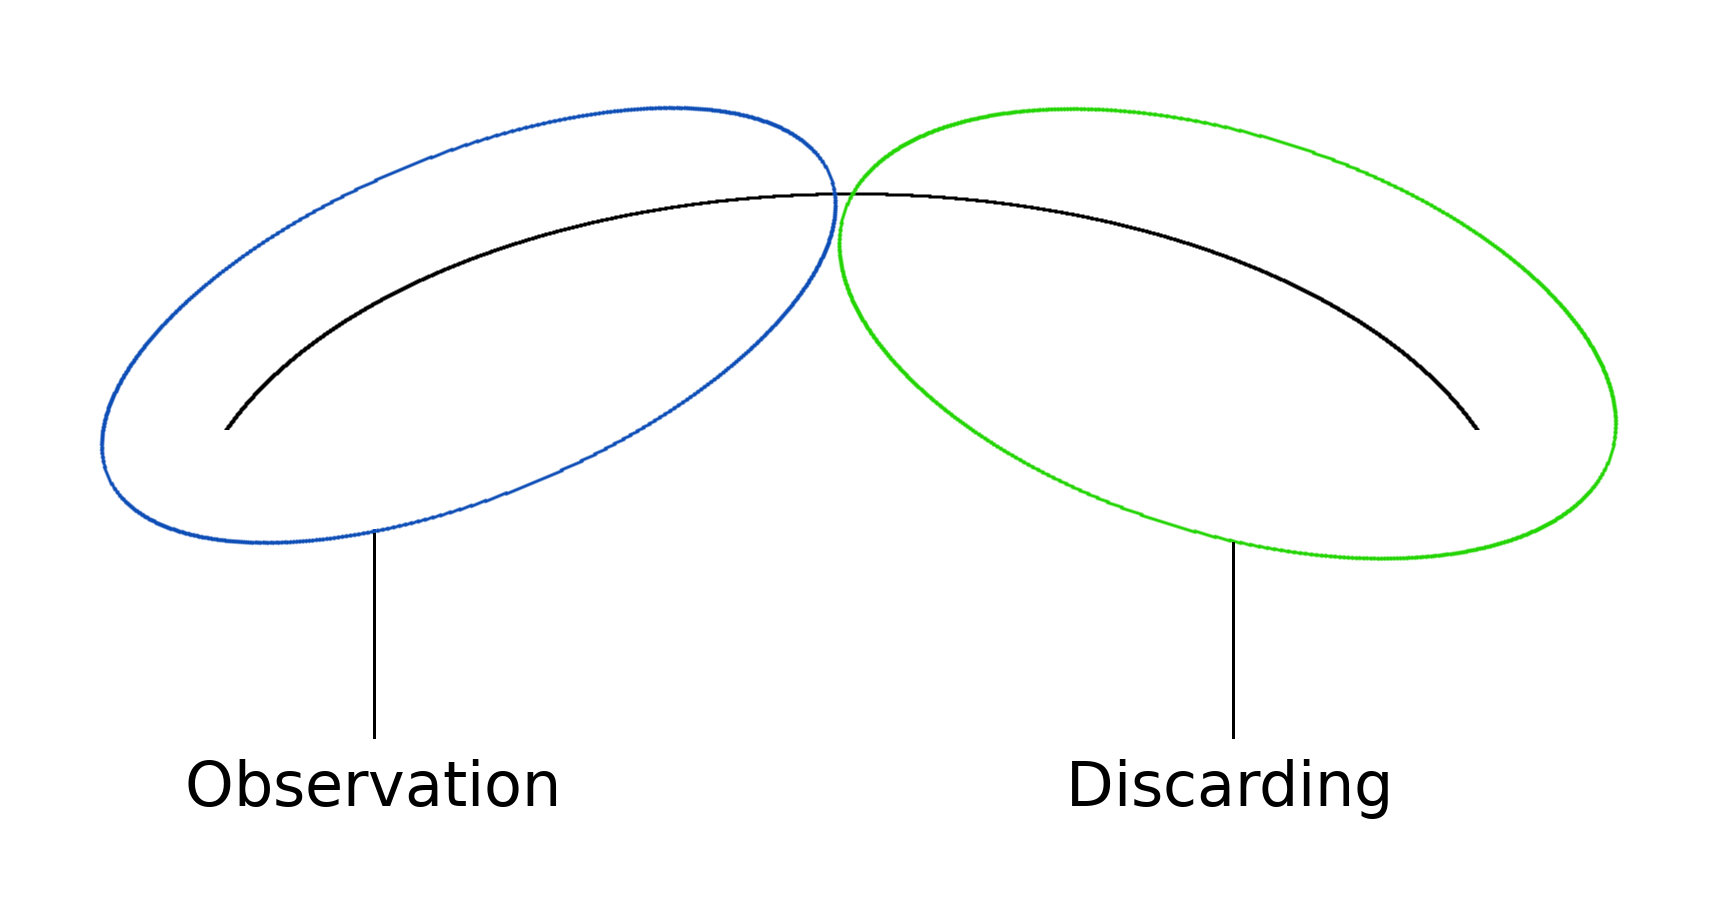
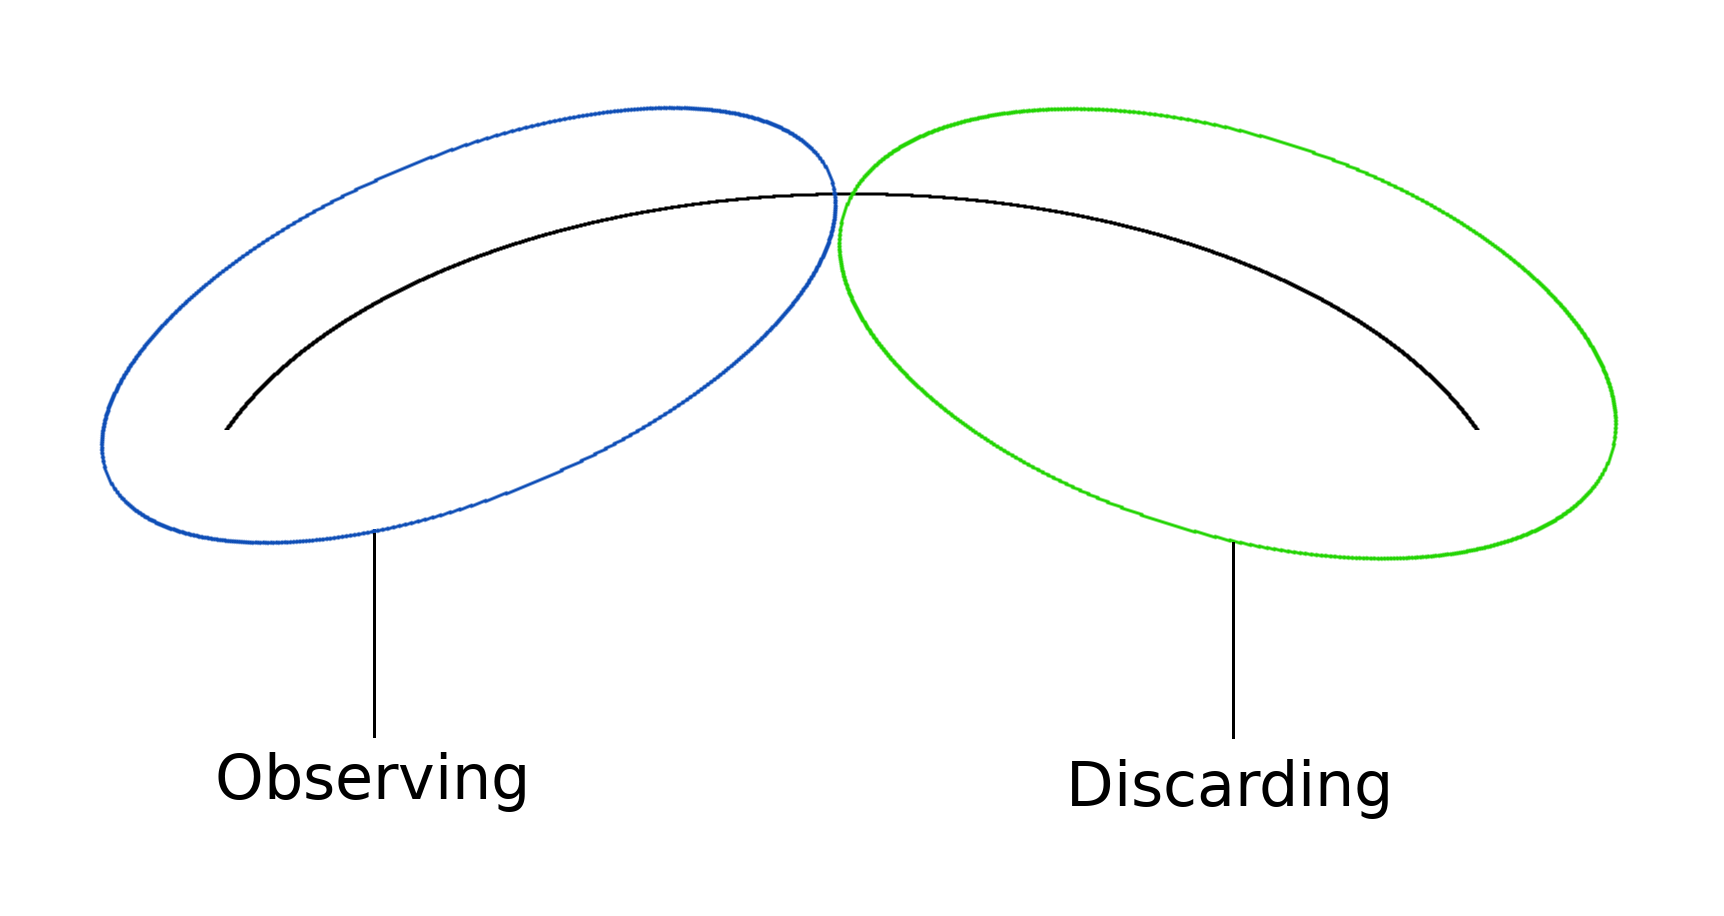
Editorial Revisions

Changed region(s): [[0.0922, 0.8253, 0.3382, 0.8865]]

diff --git a/theory/depicting-abstraction.html b/theory/depicting-abstraction.html
@@ -38,10 +38,10 @@
 		</figure>
 		<p>
 			Abstraction is discarding.
-			In order to depict abstraction, we will require some data or material
+			In order to abstract, we require some data or material
 			to abstract from.
 			As a consequence, our depiction will be composed of two parts:
-			Observation and Discarding:
+			Observing and Discarding:
 		</p>
 
 		<figure>
